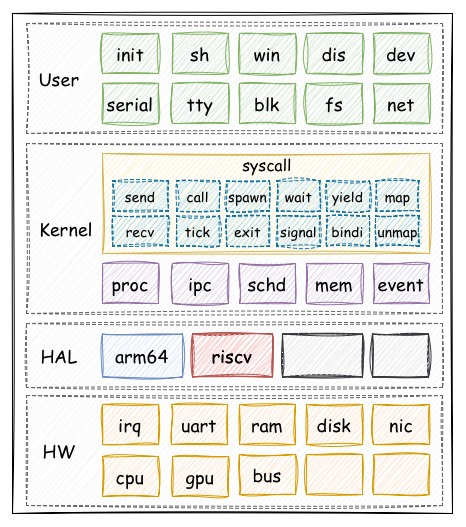
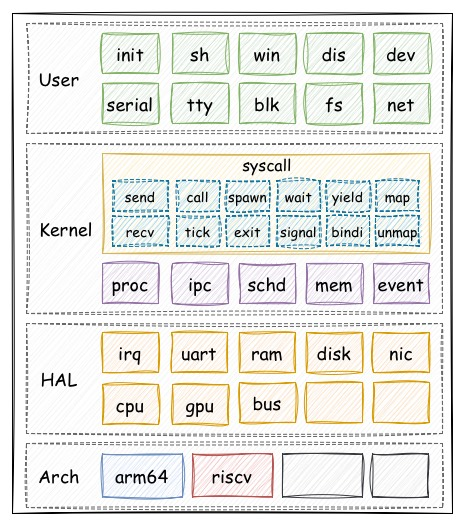
Update architecture drawing and distinguish HAL from Arch

Changed region(s): [[0.03, 0.6072, 0.9614, 0.9715]]

diff --git a/docs/todo-redesign.md b/docs/todo-redesign.md
@@ -12,10 +12,14 @@
 
 ![微内核架构](architecture.jpg)
 
-HAL 是内核机制与硬件操作之间的接口边界，实现在 `kernel/arm64/`、`kernel/riscv/`，
-公共契约放在 `include/hal/`；不是独立进程，也不要求新增 HAL 实现目录。
-图为分层示意，未展开共享内存及用户驱动直接访问授权 MMIO/DMA 的连接；这些访问不经过内核 IPC 数据搬运。
-HAL 只封装内核必需的硬件操作，不接管 serial/blk/net 等用户态驱动的设备协议。RISC-V 当前仅支持 RV64。
+最新图将 HAL 与 Arch 分层：HAL 表达 IRQ、CPU、内存和设备资源等硬件抽象，Arch 表达 arm64/riscv 的具体实现。
+HAL 公共契约放在 `include/hal/`；Arch 实现仍放在 `kernel/arm64/`、`kernel/riscv/`，不新增 `arch/` 中间目录。
+两层都是实现边界，不是新增运行态或服务进程。图中的 UART/Disk/NIC/GPU 表示硬件抽象类别，
+不表示把这些设备驱动或协议搬回内核；内核只提供必需的控制器/CPU/映射/授权机制，设备协议仍由 serial/blk/net/dis 等用户态服务处理。
+用户态驱动使用获授权的设备资源及适当的底层访问封装，不要求每次设备读写都通过 syscall 或内核 HAL 中转。
+图省略物理硬件层、共享数据通道及直接 MMIO/DMA 连接；实际依赖仍是抽象接口落到架构/设备实现。
+HAL 不需要强制为每个图标建立一套通用接口；IRQ/页表等内核契约与用户态设备封装的具体划分仍需逐项定义。
+RISC-V 当前仅支持 RV64。图中 syscall 名称是概览，实际接口分层以第 9 节为准。
 
 ## 已确定的命名约定
 
@@ -271,7 +275,8 @@ ASID、多核、异步共享环及零拷贝先不做。
 - mem：物理页、预算、共享内存。
 - vspace：映射、页表、安全访问。
 - syscall：ABI 解码和入口检查，调用具体机制。
-- HAL（include/hal 公共契约、kernel/arm64 与 kernel/riscv 实现）：CPU、页表、定时器和 PLIC/GIC 等内核必需硬件操作，不感知服务协议。
+- HAL：硬件抽象契约；内核必需的 CPU、地址空间、定时器和 IRQ 接口位于 include/hal，不接管设备协议。
+- Arch：kernel/arm64 与 kernel/riscv 实现陷阱、寄存器、页表、定时器及 PLIC/GIC 等操作；图中的 Arch 是层名，不是目录名。
 - kernel/boot：解析设备树并整理启动资源；普通设备协议由用户态驱动处理。
 - include/{arm64,riscv}、user/{arm64,riscv}：架构专用头文件和用户态架构适配。
 

diff --git a/docs/status.md b/docs/status.md
@@ -5,3 +5,5 @@
 
 方案已按最新手绘架构图整理：serial/tty 分离、dev 负责发现与协调、spawn/wait 属于用户态管理接口。
 win/dis/net 为目标服务；dis 含义、print 去留及扩展范围仍需确认。以上均未实现。
+
+最新架构图已区分 HAL 抽象与 Arch 实现；设备协议仍在用户态，尚未新增任何实现。
